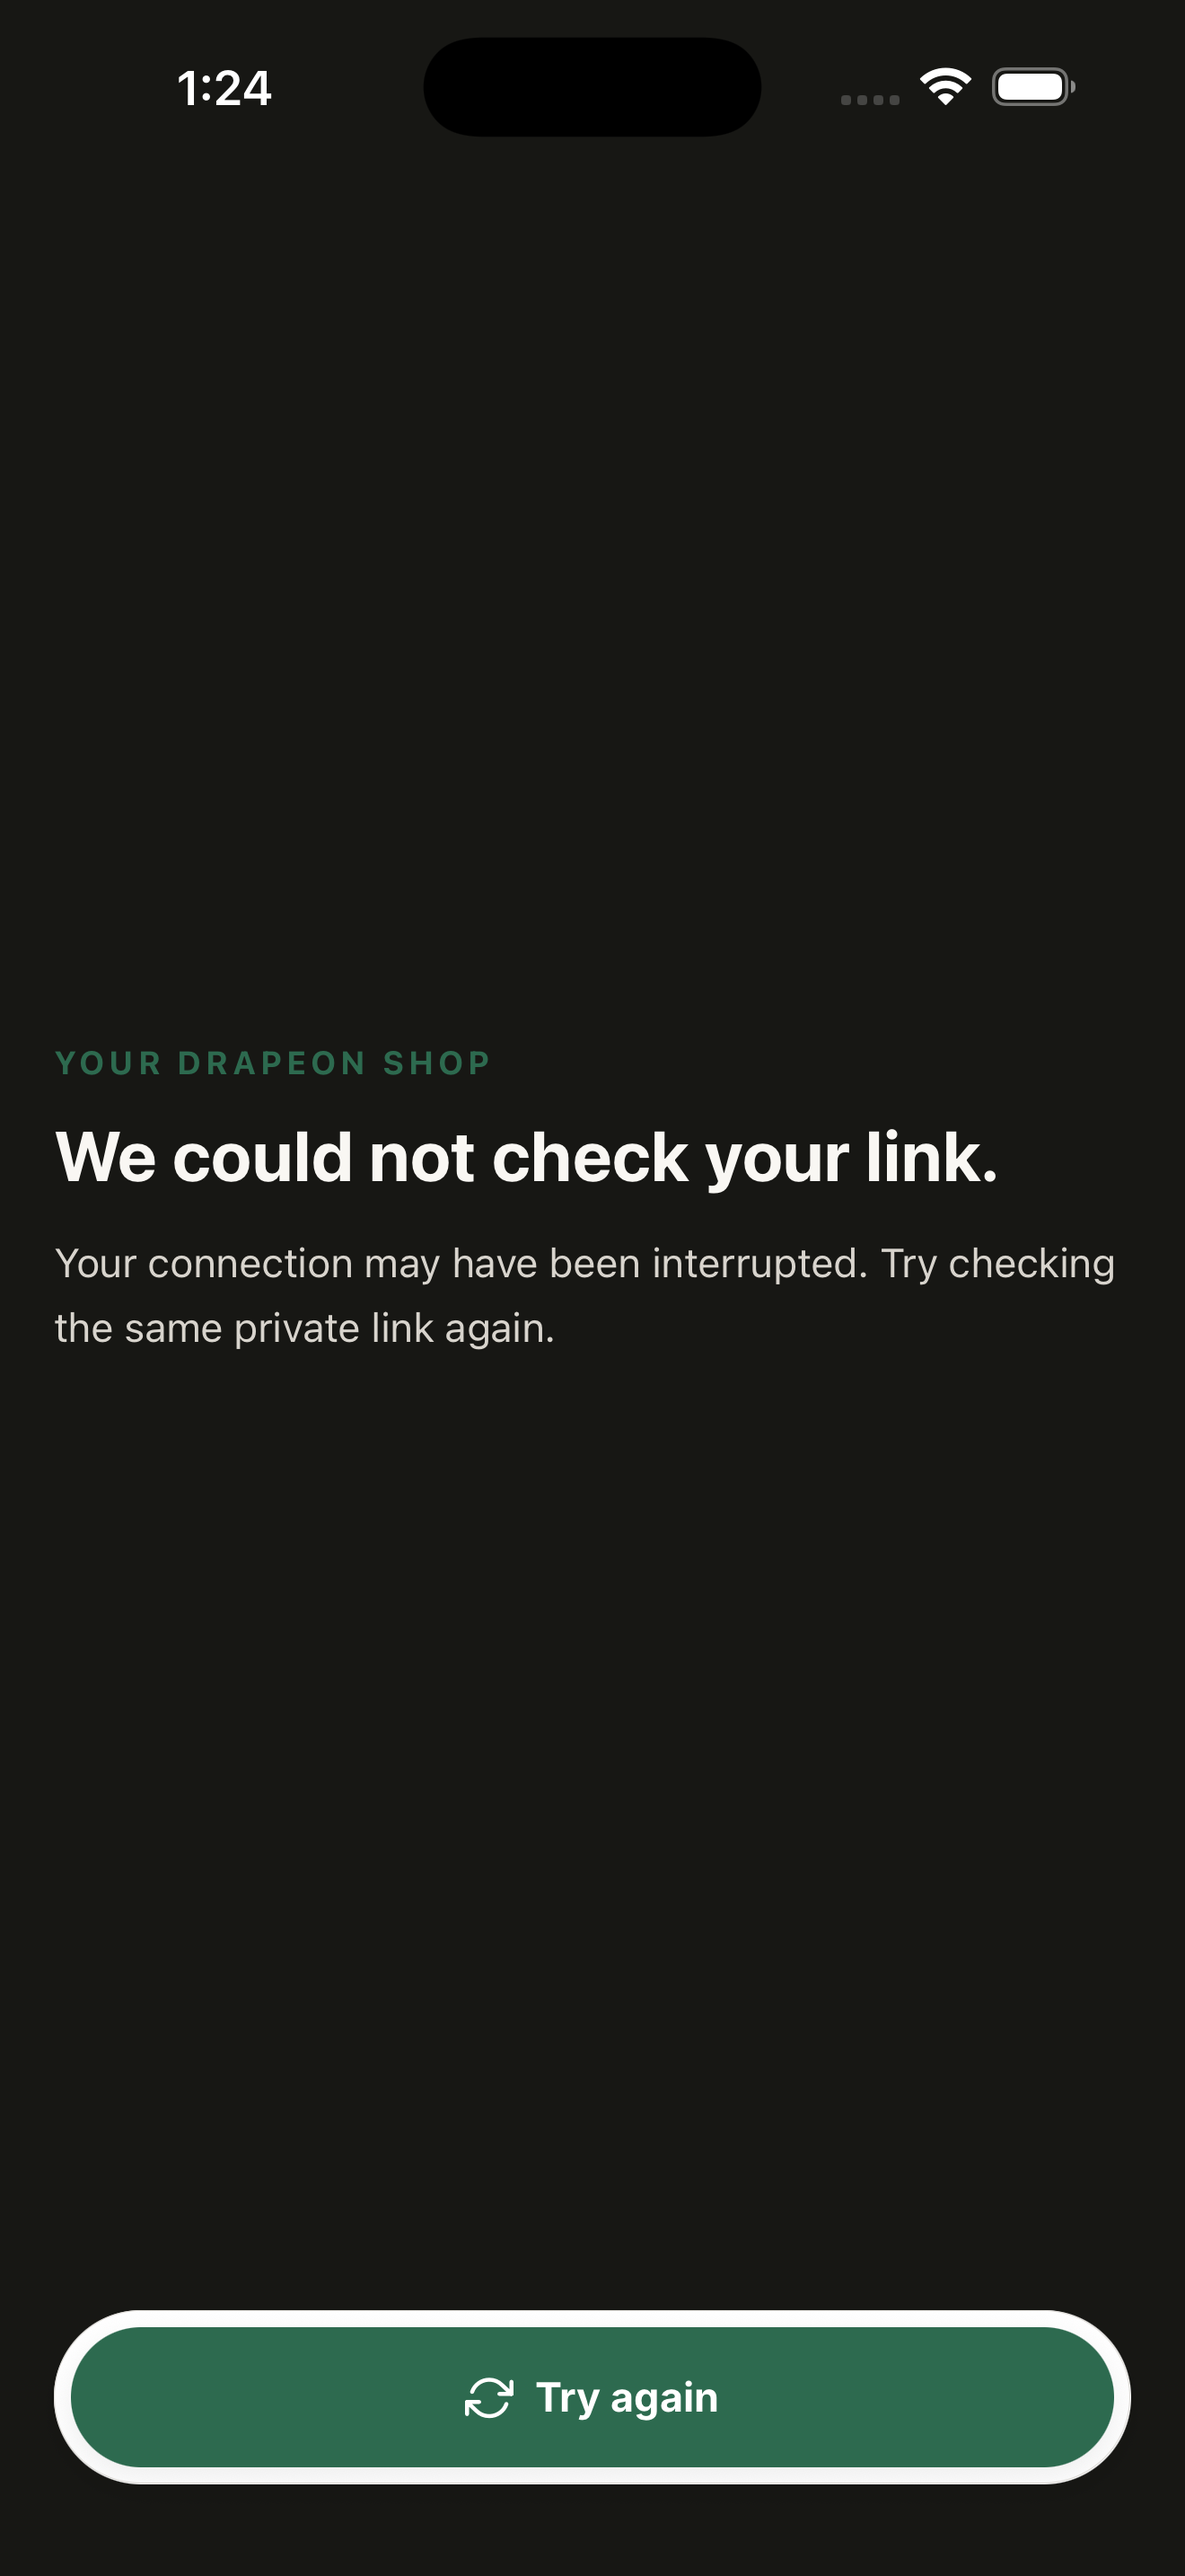
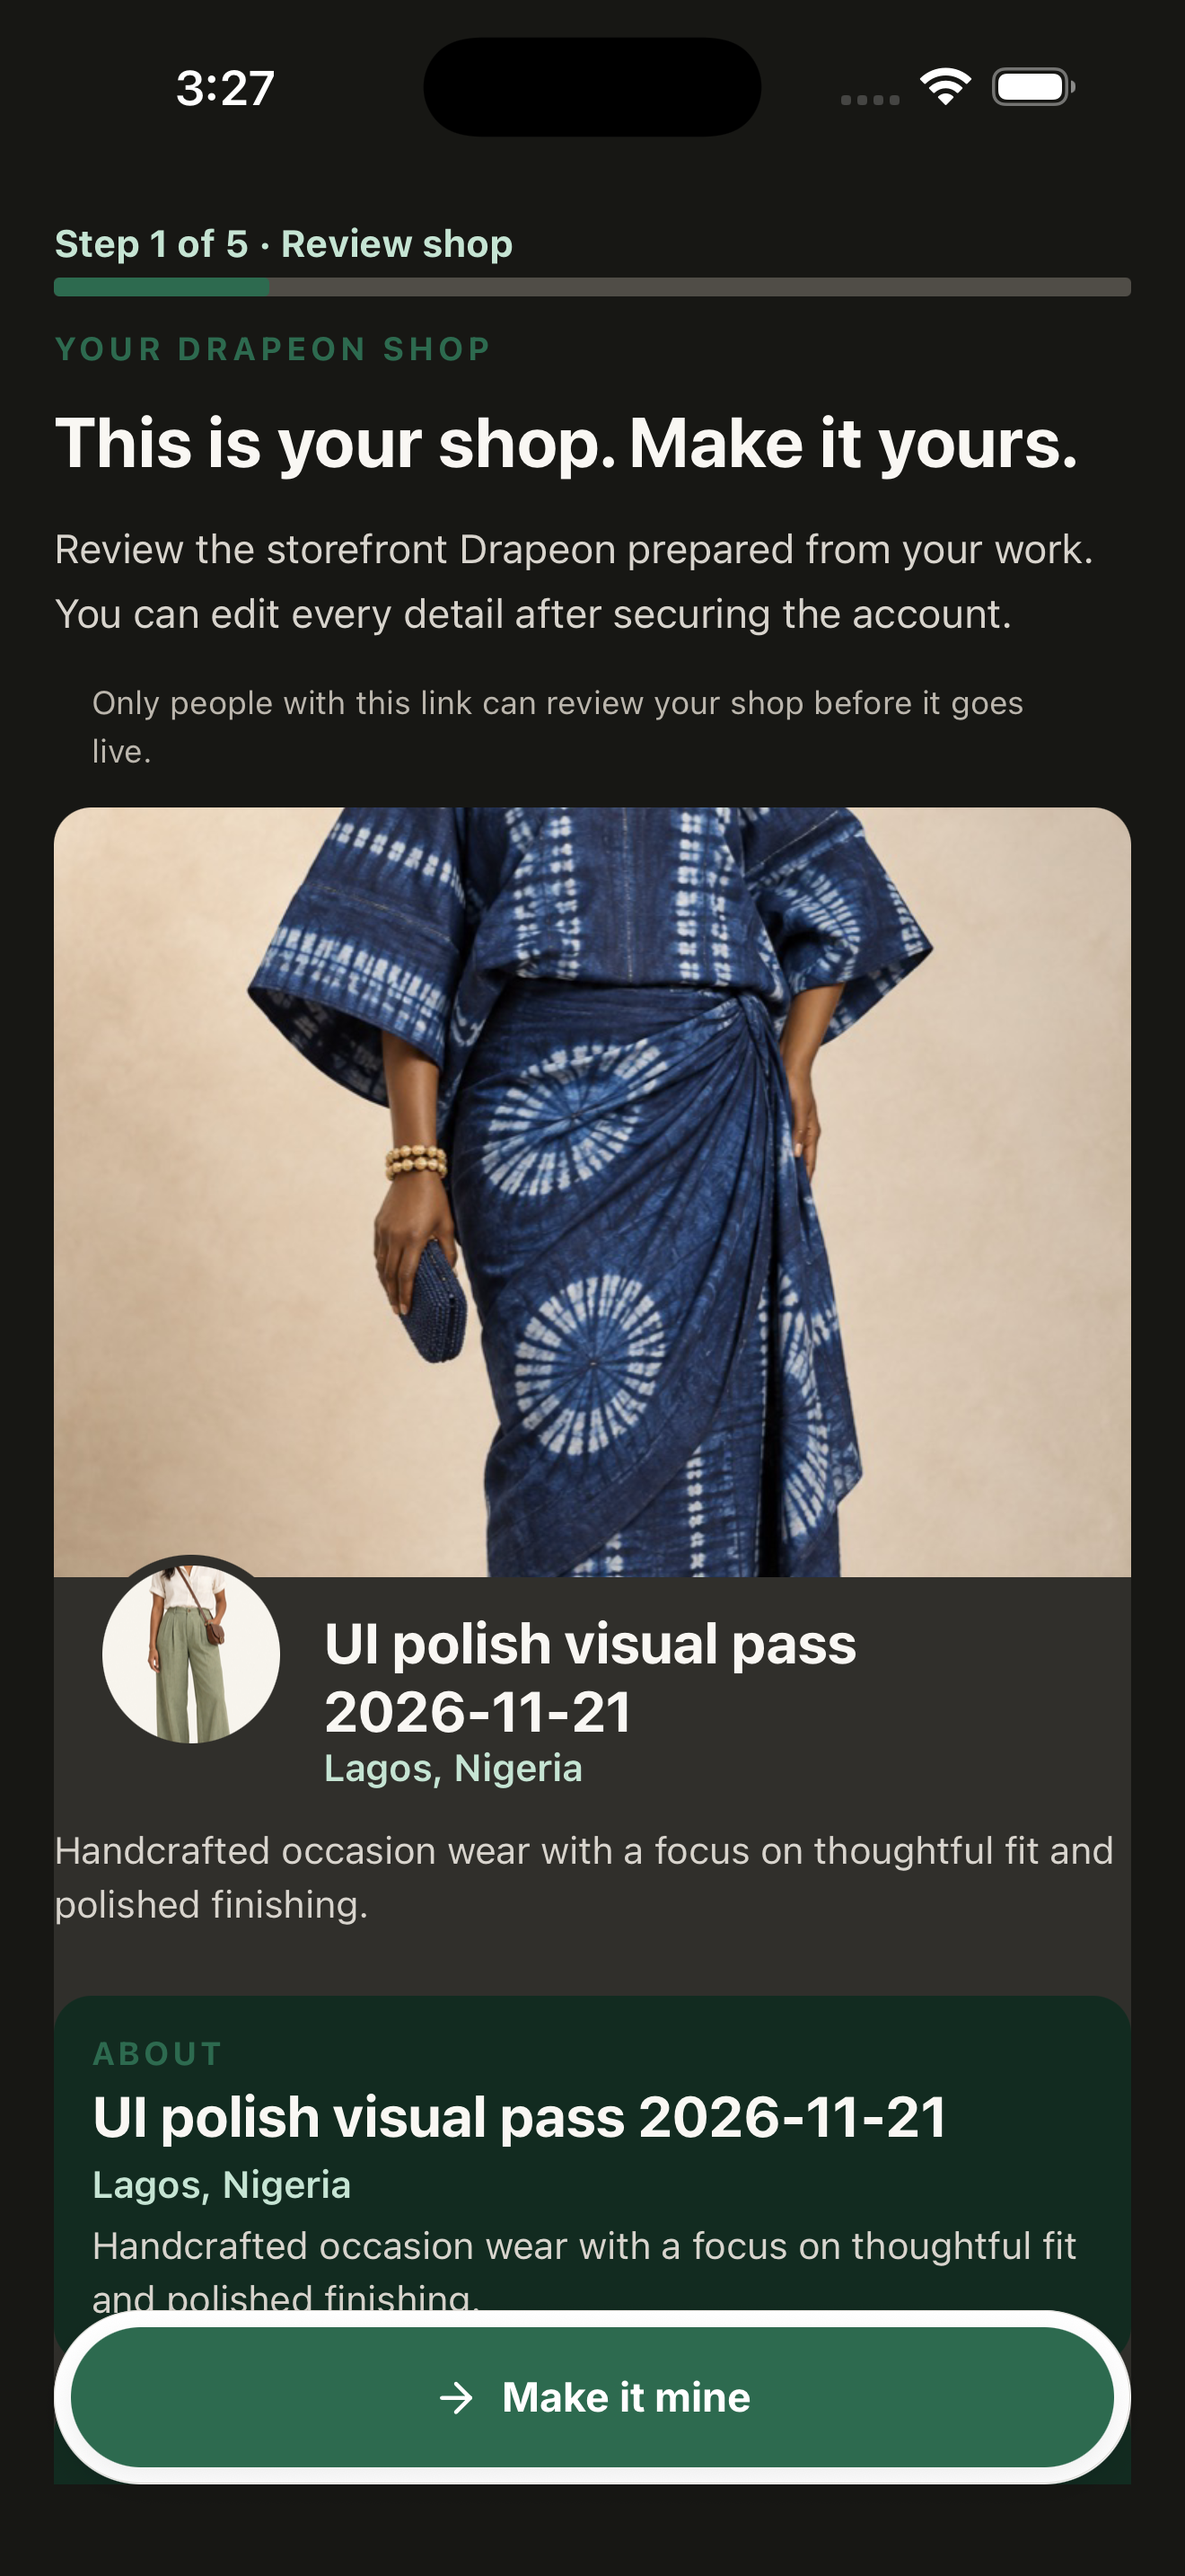
fix(claim): polish claim handoff evidence

diff --git a/apps/web/middleware.ts b/apps/web/middleware.ts
@@ -167,14 +167,28 @@ function contentSecurityPolicy(nonce: string) {
 }
 
 function claimContentSecurityPolicy(nonce: string) {
+  const isDevelopment = process.env.NODE_ENV !== 'production'
   const storageOrigin = getSupabaseStorageOrigin()
+  const scriptSrc = [
+    "'self'",
+    `'nonce-${nonce}'`,
+    isDevelopment ? "'unsafe-eval'" : '',
+    "'strict-dynamic'",
+  ].filter(Boolean).join(' ')
+  const connectSrc = [
+    "'self'",
+    storageOrigin,
+    'https://*.supabase.co',
+    isDevelopment ? 'ws://localhost:*' : '',
+    isDevelopment ? 'ws://127.0.0.1:*' : '',
+  ].filter(Boolean).join(' ')
   return [
     "default-src 'self'",
-    `script-src 'self' 'nonce-${nonce}' 'strict-dynamic'`,
+    `script-src ${scriptSrc}`,
     `style-src 'self' 'unsafe-inline'`,
     `img-src 'self' data: ${storageOrigin} https://*.supabase.co`,
     `media-src 'self' ${storageOrigin} https://*.supabase.co`,
-    `connect-src 'self' ${storageOrigin}`,
+    `connect-src ${connectSrc}`,
     "font-src 'self' data:",
     "frame-src 'none'",
     "frame-ancestors 'none'",

diff --git a/docs/evidence/pr232-ui-polish-20261121/README.md b/docs/evidence/pr232-ui-polish-20261121/README.md
@@ -1,19 +1,31 @@
-# PR 232 mobile claim UI polish — 2026-11-21
+# PR 232 mobile claim polish — 2026-11-21
 
-Development project only: `pqptfuqogvrajozfsqzi`. No Production configuration or data was changed. Screenshots contain no claim token, email code, password, or pickup street address.
+Development only (`pqptfuqogvrajozfsqzi`). No Production settings or data were changed. Screenshots contain no claim token, email code, password, phone number, or pickup street address.
 
-## Review step before and after
+## Review shop
 
-The four `before-*review*` images are from the earlier Pro Max and SE simulator evidence. The four `after-*review*` images were captured from the updated Development client on the iPhone SE and Pro Max iOS 26.3 simulators.
+The `before-*review*` captures show the previous layout. The `after-*review*` captures show the current branch on iPhone SE (375 pt) and Pro Max, in light and dark appearance. They show the named step and progress bar, one privacy sentence, the Drape floating dock, and real garment images after loading.
 
-The updated review screen has the larger named step label and clearer progress track, one quiet privacy sentence, a steady media placeholder that fades to real-looking portfolio fixtures, and the inset Drape floating action dock. The country picker now displays country names and ISO codes instead of unsupported flag emoji, which caused the “unknown” glyphs in the founder’s recording.
+The black tiles from the earlier emulator report were not black fixture images. The fixture rows matched the repository JPEGs by SHA-256 and byte size, and Development storage returned `image/jpeg` successfully. The view now uses Drape's `RemoteImage` primitive for its stable blurred placeholder, fade, and retry behavior. The latest Pro Max dark capture was taken after the photos had loaded.
 
-## Sign-in step
+## Sign-in
 
-`after-pro-max-signin-light.png` records the post-polish Pro Max light sign-in layout: Apple is a secondary outlined action above email, and “Send email code” is the sole dominant dock CTA. The source also places the disabled reason immediately above the dock. Provider and dock-reason helper styles now follow the active system palette.
+`after-se-signin-light.png` and `after-se-signin-dark.png` are fresh captures from the current Dev client at 375 pt. They show Apple first as a secondary outlined action, the email divider and field below it, the disabled dock reason, and “Send email code” as the only dominant action.
 
-The remaining SE and Pro Max sign-in captures (SE light/dark, Pro Max dark) are pending. The SE screen showed the older cached layout, so that capture is excluded. The Pro Max continued to show the Development link-check rate-limit screen after one pinned retry; no further server attempts were made. Earlier Development logs showed 30 HTTP 200 responses followed by 18 HTTP 429 responses in the 19:20–19:27 UTC window. A fresh iOS client build was attempted: the first stopped at the optional Sentry source-map upload because local org config is absent; the retry with Sentry upload disabled stalled before replacing the installed app. A Maestro invocation without a device selector earlier chose a connected Pixel 8; all later simulator automation was pinned to the iOS Simulator UDIDs.
+`after-pro-max-signin-light.png` is the existing current-design light capture. A Pro Max dark sign-in capture is still missing: the Pro Max simulator stopped accepting input while on the review step, so I did not substitute an SE image or label the review screen as sign-in evidence. The code uses the same theme-aware layout on both devices.
 
-An Android Development emulator check found black media tiles in Contact & pickup. The fixture rows match the three repository JPEGs by SHA-256 and byte size, and Development storage returned `image/jpeg` 200 responses. The black tiles are therefore a client rendering issue, not black fixture assets. The screen now uses the existing Drape `RemoteImage` component for its blur placeholder, fade, and retry path; the refreshed visual result is still unverified.
+The password helper and dock reason were checked in the implementation: the field starts without a red error; after input or Continue, a single helper line reports the 10-character rule; the disabled dock repeats the exact short reason beside the action.
 
-The Contact & pickup UI left on the emulator belonged to an expired bootstrap session. A cold restart showed the unavailable-link state, so no claim form was submitted against that stale session. The current invite remains open, but it has no email-code bootstrap session. The screenshot set therefore does not prove claim-to-LIVE. Do not mark PR #232 ready until the missing current-bundle sign-in screenshots, fresh claim bootstrap, and full claim pass are recorded.
+## Web visual pass
+
+The Development preview was opened in the in-app browser using a token-safe local alias. Captures cover a 375 px phone layout and desktop width in light and dark mode. The page displays the real garment fixture images and responsive shop profile. `after-web-mobile-app-light.png` records the app-first handoff view.
+
+The route-switch button did not change the visible page in the in-app browser check, so the interactive switch and post-claim web finish screen are not marked as verified. The local preview header needed a development-only CSP allowance for Next's eval/HMR; production CSP remains unchanged. The page screenshot itself was visually checked at phone and desktop widths.
+
+## Claim-to-LIVE status
+
+The fresh Development email claim passed email-code verification and reached password creation. The tailor must enter the disposable password directly in the Android emulator; the claim has not yet advanced to Contact & pickup. No phone verification, FINALIZE, LIVE transition, or Explore check has been recorded. The claim flow must stop at the photo-consent checkbox until the displayed fixture images have been explicitly approved for this test.
+
+The Pro Max dark sign-in capture is still missing. Existing native evidence covers Pro Max and SE review screens in light and dark, plus SE sign-in in both modes and Pro Max sign-in in light mode. Do not substitute another device or screen and label it as Pro Max dark sign-in.
+
+No PR was marked ready and no Production operation was run.
